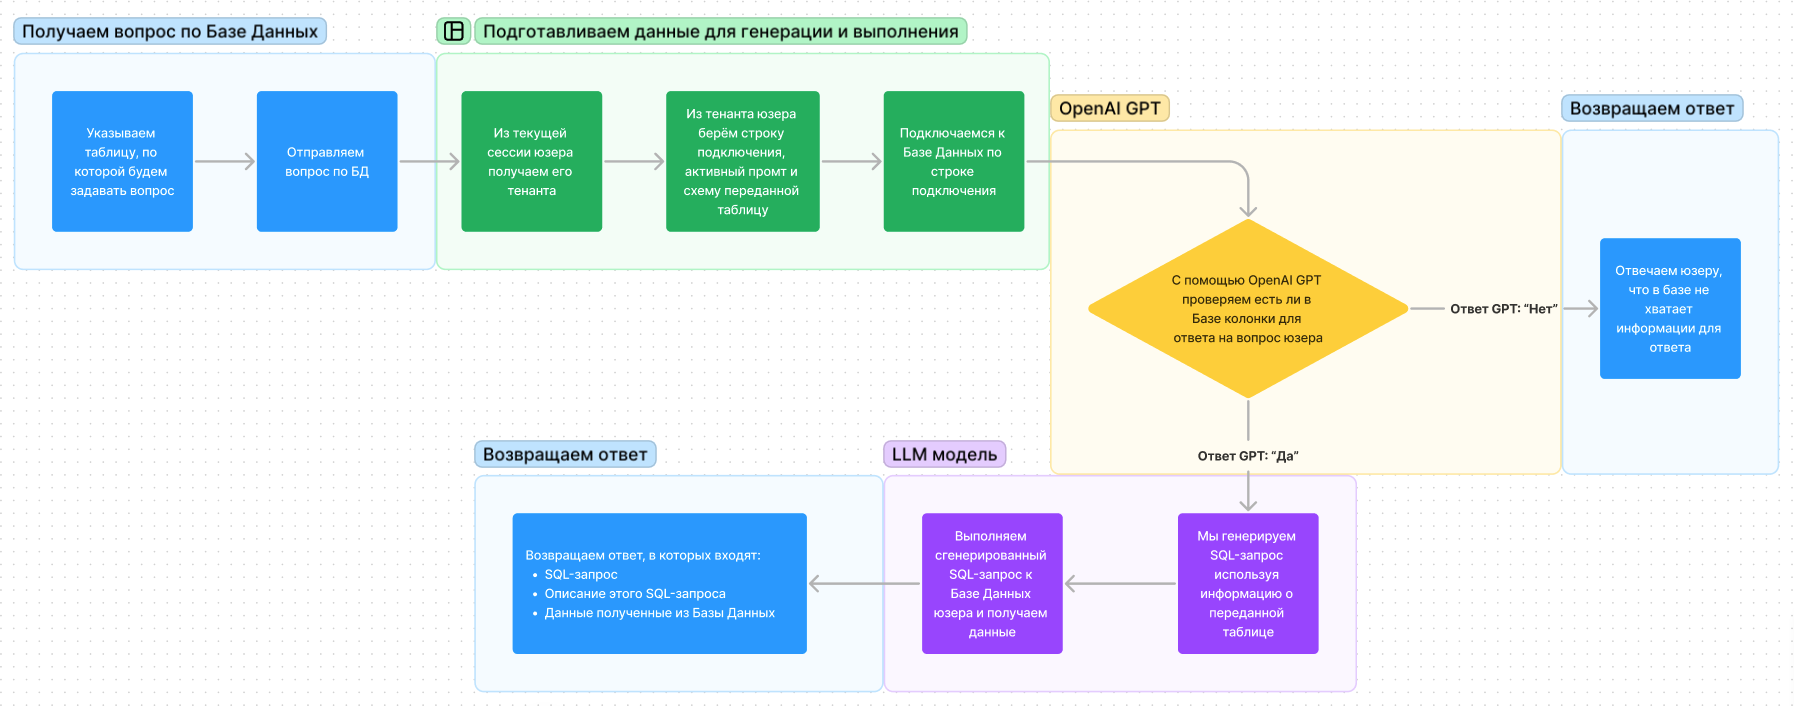
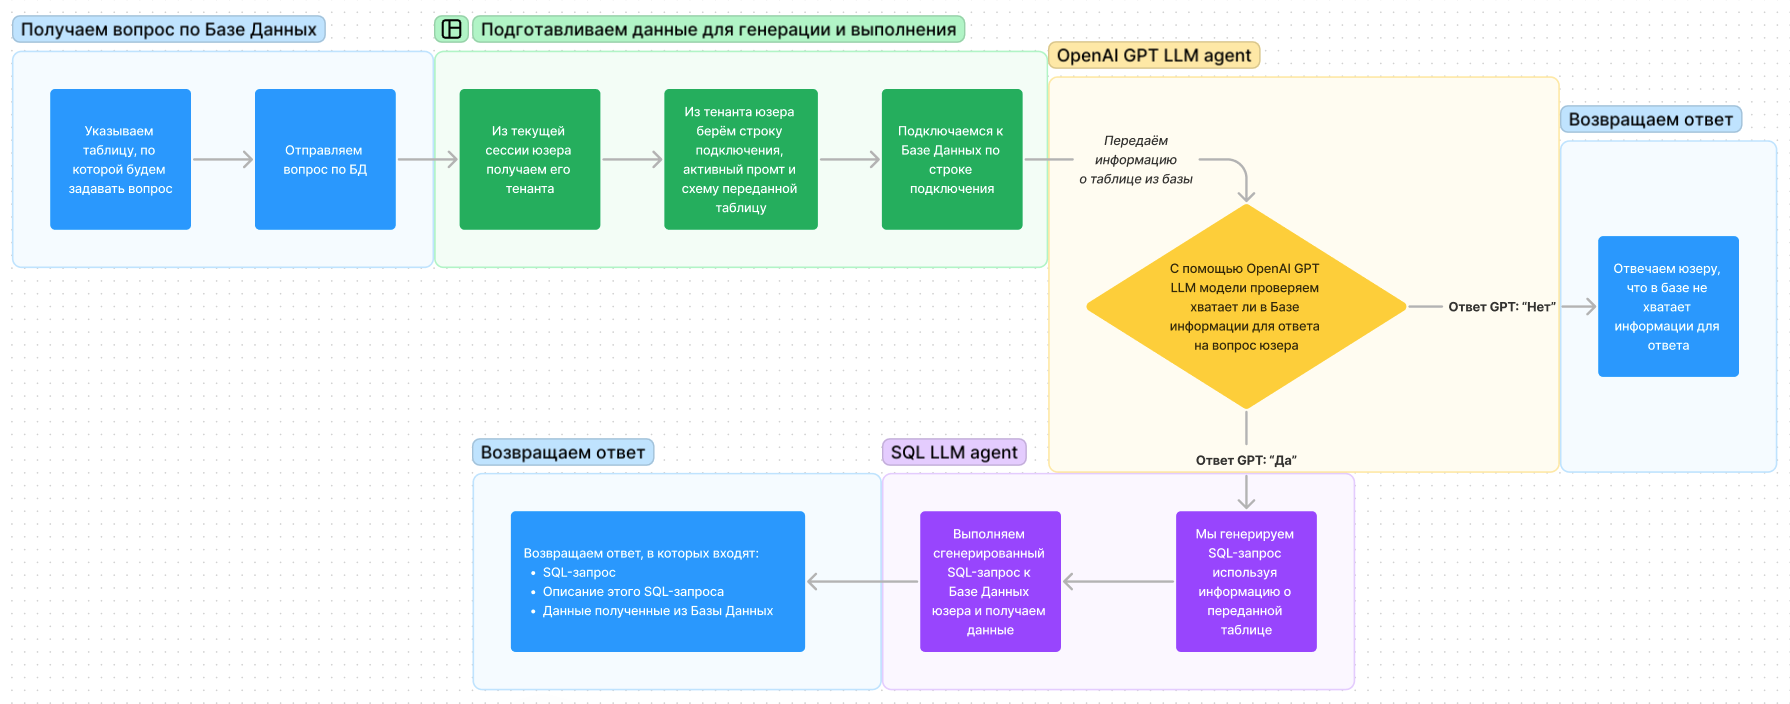
feat: update data scheme and add high level scheme

diff --git a/docs/db_assistant.md b/docs/db_assistant.md
@@ -10,13 +10,15 @@
 
 ## Архитектура сервиса
 
+### High-level архитектура
+
+![Схема](images/db_assistant_high_level.png)
+
 ### Схема информационных потоков
 
 Сервис принимает запрос в формате `DatabasePredictionQuery`, который содержит информацию о таблицах и запросе. Затем
 сервис обрабатывает запрос, используя различные **LLM компоненты**, такие как `DatastepSqlDatabase`, `DatastepSqlChain`
 и `DatastepCheckDataChain`. Результаты обработки затем возвращаются в формате `DatabasePredictionRead`.
-
-### Схема информационных потоков
 
 ![Схема](images/db_assistant.png)
 
